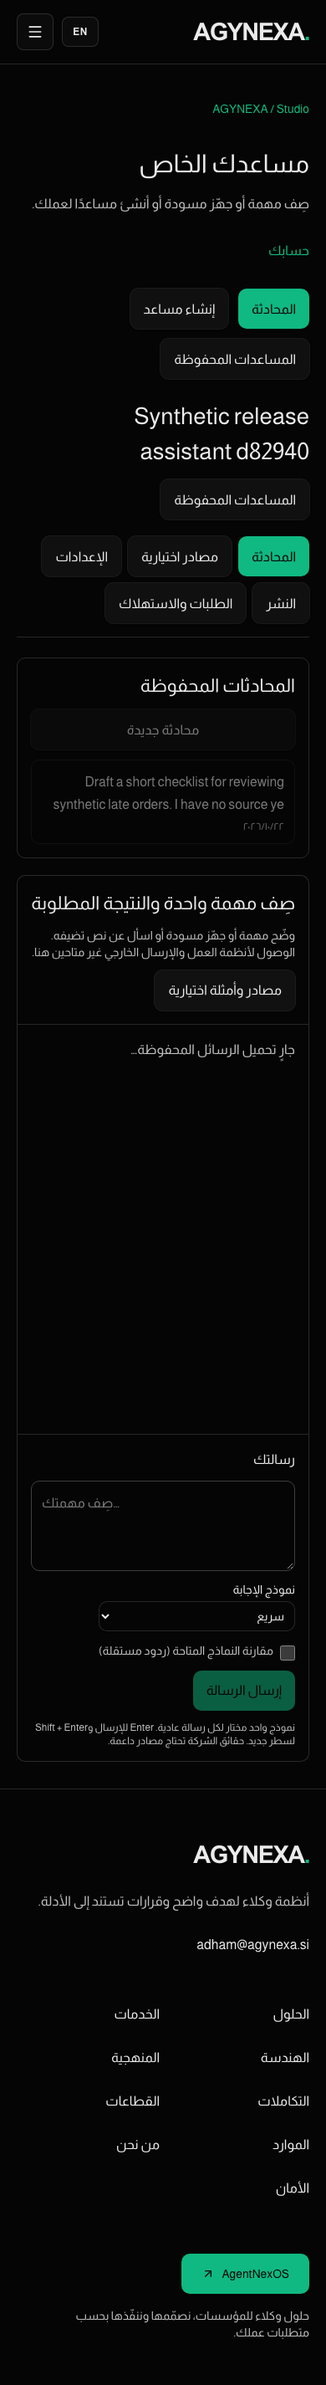
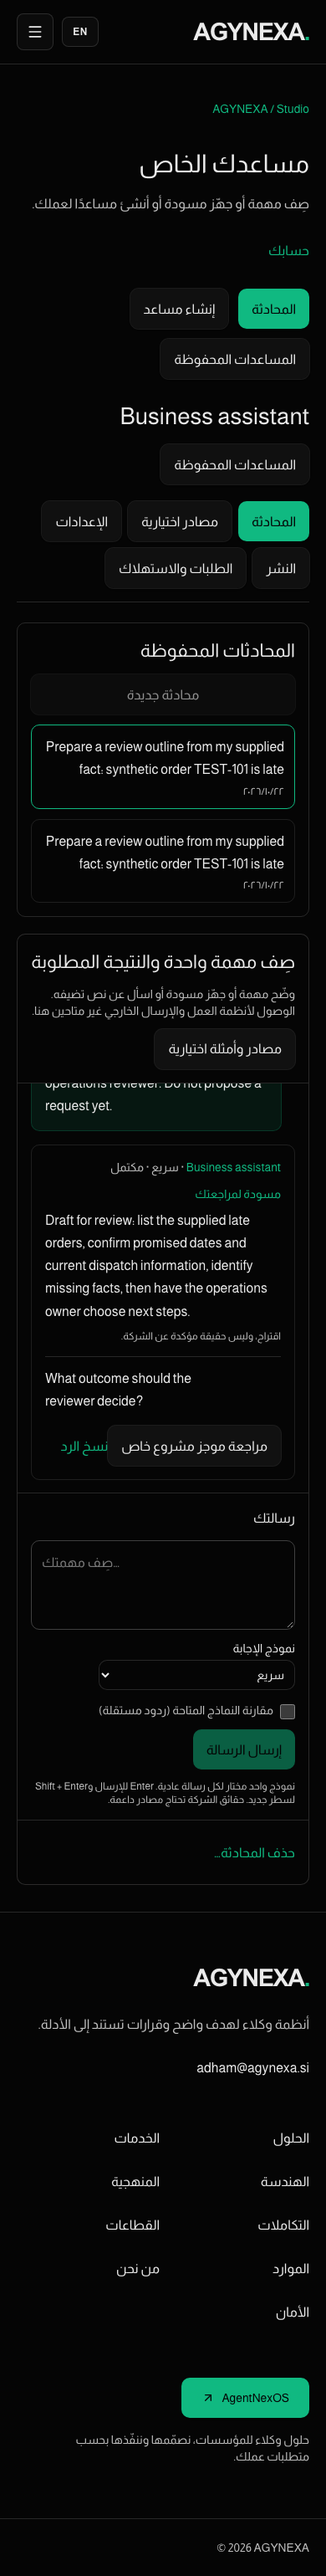
fix: constrain provider response parts to safe citation combinations

diff --git a/lib/studio/provider.ts b/lib/studio/provider.ts
@@ -41,4 +41,7 @@ export async function checkProvider(){
 }
 
 const object=(properties:Record<string,unknown>)=>({type:'object',additionalProperties:false,required:Object.keys(properties),properties})
-const chatSchema=object({parts:{type:'array',items:object({kind:{type:'string',enum:['capability','discovery','draft','grounded','missing_evidence','unavailable_action']},text:{type:'string'},basis:{type:'string',enum:['product_capabilities','user_supplied','suggestion','approved_sources']},citationChunkIds:{type:'array',items:{type:'string'}}})},nextQuestion:{type:['string','null']},briefDraft:{type:'null'},support:object({propose:{type:'boolean'},title:{type:'string'},details:{type:'string'}})})
+const partSchema=(kinds:string[],bases:string[],grounded=false)=>object({kind:{type:'string',enum:kinds},text:{type:'string'},basis:{type:'string',enum:bases},citationChunkIds:{type:'array',items:{type:'string'},maxItems:grounded?6:0,...(grounded?{minItems:1}:{})}})
+// Encode the same combinations the server validates, rather than asking the model
+// to infer citation policy from independent kind/basis enums.
+const chatSchema=object({parts:{type:'array',items:{anyOf:[partSchema(['grounded'],['approved_sources'],true),partSchema(['capability'],['product_capabilities']),partSchema(['discovery','draft'],['user_supplied','suggestion']),partSchema(['missing_evidence','unavailable_action'],['suggestion','product_capabilities'])]}},nextQuestion:{type:['string','null']},briefDraft:{type:'null'},support:object({propose:{type:'boolean'},title:{type:'string'},details:{type:'string'}})})

diff --git a/tests/launch-browser.py b/tests/launch-browser.py
@@ -62,6 +62,15 @@ async def main():
   boot_response=await page.request.post(BASE+'/api/v1/workspace/chat',data={'locale':'en'},headers={'Origin':BASE})
   assert boot_response.ok
   default_agent=(await boot_response.json())['agent']
+  if os.getenv('LAUNCH_BROWSER_CAPTURE_ONLY')=='ar':
+   await page.set_viewport_size({'width':390,'height':844})
+   await page.goto(BASE+'/ar/studio?agent='+default_agent['id'])
+   await page.locator('#agent-chat-message').wait_for()
+   await page.wait_for_function("!document.getElementById('agent-chat-message').disabled")
+   await screenshot('studio-ar-390')
+   print('PASS: resolved Arabic390 screenshot refreshed; read-only capture, no inference')
+   await browser.close()
+   return
   assert not (await (await page.request.get(BASE+'/api/v1/agents/'+default_agent['id']+'/sources')).json())['sources'],'Browser new-customer fixture must have no sources'
   if os.getenv('LAUNCH_BROWSER_RESUME')!='builder':
    await page.get_by_role('button',name='New conversation',exact=True).click()
@@ -169,6 +178,7 @@ async def main():
   await page.goto(BASE+'/ar/studio?agent='+created['id']+'&conversation='+conversation)
   await page.locator('#agent-chat-message').wait_for()
   assert await page.evaluate('document.documentElement.dir')=='rtl'
+  await page.get_by_role('log').get_by_text(grounded['question'],exact=True).wait_for()
   await screenshot('studio-ar-390')
   await page.get_by_role('button',name='حذف المحادثة…',exact=True).click()
   assert await page.get_by_role('button',name='تأكيد حذف المحادثة',exact=True).is_visible()
@@ -188,7 +198,7 @@ async def main():
    await screenshot('home-candidate-'+str(width))
   checks.append('Candidate homepage at 390/768/1440 captured without horizontal overflow; baseline comparison owned by lead')
   assert not errors,errors
-  result={'environment':'isolated local app with real Auth/PostgREST and synthetic accounts; deterministic provider fixture via Node preload' ,'status':'PASS','checks':checks,'pageErrors':errors,'limitations':['Comprehension tool is supporting text review, not a consenting-reader usability test.','Home screenshots require comparison with lead baseline; capture alone is not parity.','Provider output is deterministic fixture data; this gate verifies UI/storage/authorization contracts, not live model reasoning or semantic quality. Live adapter/schema/model checks are a separate Vercel gate.']}
+  result={'environment':'isolated local app with real Auth/PostgREST and synthetic accounts; deterministic provider fixture via Node preload' ,'status':'PASS','executionSegments':{'resume':os.getenv('LAUNCH_BROWSER_RESUME'),'earlierReceipt':'browser-model-selector-failure.json' if os.getenv('LAUNCH_BROWSER_RESUME')=='builder' else None},'checks':checks,'pageErrors':errors,'limitations':['Comprehension tool is supporting text review, not a consenting-reader usability test.','Home screenshots require comparison with lead baseline; capture alone is not parity.','Provider output is deterministic fixture data; this gate verifies UI/storage/authorization contracts, not live model reasoning or semantic quality. Live adapter/schema/model checks are a separate Vercel gate.']}
   (OUT/'browser.json').write_text(json.dumps(result,ensure_ascii=False,indent=2)+'\n')
   print(json.dumps(result,ensure_ascii=False))
   await browser.close()

diff --git a/docs/launch/2026-10-22/UI-RECORD.md b/docs/launch/2026-10-22/UI-RECORD.md
@@ -61,3 +61,15 @@ IMPORTANT findings sent to lead: (1) runtime dependencies included only current 
 No additional critical/important issue established in actor/org/agent/access-kind/conversation tuple, non-overwriting reserved-key bootstrap, dedicated builder create discriminator, shared DB agent lock for source/approval/finalization, or bounded hosting lease. Model-account inference/access still requires the planned gate; registry metadata alone is not verification. Raw authenticated run/proposal select grants close only with the explicit subsequent migration after compatible app deploy; lead must preserve that deployment ordering.
 
 Lead response: both independent findings accepted and fixed (prior-turn dependency union, no failed/cancelled generated payload, removal of rejected candidate snapshot); lead authors affected real regression cases. Fix outcome is IMPLEMENTED per lead, not independently retested by this reviewer, in keeping with the single-review rule. Remaining assigned review completed; no additional critical/important finding established. Product gate and production phase remain lead-owned.
+
+## Phase 4 — integrated affected browser gate (PASS for stated environment)
+
+Executed `tests/launch-browser.py` against `http://localhost:3016` with the real isolated PostgreSQL/Auth/PostgREST application and synthetic local fixtures. Browser executable was the installed Chromium headless shell. **Provider boundary is deterministic synthetic response data supplied by a Node preload outside production source. This is not live Groq/model semantic verification.** Lead separately owns remote adapter/schema/model verification.
+
+Result: eight focused journey groups PASS, zero browser page errors. Evidence: [browser.json](evidence/browser/browser.json), [English1440](evidence/browser/studio-en-1440.png), [builder768](evidence/browser/builder-en-768.png), [Arabic390](evidence/browser/studio-ar-390.png). Actual verified paths: default localized login/private chat without sources; user-message-only brief prefill/required fields/review/consent/private save; distinct persisted builder agent ID/name/instructions/settings destination and private test; synthetic sample inspection/editor no creation followed by explicit private source add; original citations/refresh/follow-up; exact stored proposal title/details and decision-only approval; source deletion invalidates linked history/citations; Arabic RTL/no overflow/keep-versus-confirm deletion. Home candidate screens captured at390/768/1440; lead owns separate baseline comparison.
+
+Initial harness failures preserved: [reused fixture](evidence/browser/browser-initial-fixture-failure.json), [save text selector](evidence/browser/browser-private-save-selector-failure.json), [model select label](evidence/browser/browser-model-selector-failure.json). Causes: account0 contained security-gate sources; success paragraph includes an Account link; implicit select label contains option text so exact matching failed. Corrected only test isolation/selectors, not product source. Browser uses fixture account1, asserts empty initial source set, starts a new conversation. Final execution resumed from builder while retaining the two already successful chat/brief groups in the saved failure receipt; they were not needlessly rerun. Remaining groups then passed. No new build/source edits were required.
+
+Limitations: deterministic provider verifies UI/contracts/storage/action boundaries, not model entailment, refusal quality, semantic usefulness, actual inference access or performance. Real runtime semantics require the separate live remote gate. These checks do not establish account recovery, external sending, a staff inbox or any new integration. No production fixtures/account writes/deployment performed by this worker. Logs: executor `work/launch-browser.log`; initial failure log retained in `work/launch-browser-initial.log` (not public deliverables). Phase status is scoped browser PASS, not overall production completion.
+
+Screenshot follow-up: the first Arabic capture was taken during asynchronous history loading. Ran the harness's read-only `LAUNCH_BROWSER_CAPTURE_ONLY=ar` branch, waited for the enabled composer (history resolved), and refreshed `studio-ar-390.png` using the already saved default assistant conversation. No inference/new message/source/proposal/brief created in that capture. Outcome PASS; resolved EN1440/builder768/AR390 screenshots inspected visually. The localized interface preserves stored agent names and historical message language. Candidate code unchanged.

diff --git a/docs/launch/2026-10-22/EXECUTION.md b/docs/launch/2026-10-22/EXECUTION.md
@@ -87,3 +87,14 @@ Resource snapshot: 8GiB RAM, 8CPU, 28GiB available disk. No Docker/Colima on PAT
 - Maintained documentation validator:PASS,1115 markdown/373 file links/80 JSON/68 canonical URLs/38 operations; original master plan/evidence hashes preserved. Extractor corrected for formatted quoted solution slug fields and explicit legal routes. No runtime source change needed.
 - Isolated browser first source-free check reused a source-populated fixture account; worker moved to untouched second synthetic account. Subsequent form success assertion/label matching were harness assumptions; worker resumes affected portions. Actual new-customer chat and explicit brief review/consent/private save passed so far, no page errors. Final browser gate pending.
 - Historical authorized Chrome audit-tab ID no longer exists in current Chrome inventory. No other personal tab was claimed, navigated or resized. Authenticated live production browser check remains NOT VERIFIED unless a usable authorized session becomes available. No production fixture accounts will be created.
+
+- Browser gate PASS:8 cumulative journey groups, zero page errors, explicit390/768/1440 EN/AR coverage (actual small width390). Evidence `evidence/browser/browser.json` and screenshots. New distinct saved agent/test, optional private synthetic source/citations, refresh/follow-up, exact internal approval, source-delete redaction, private brief review/consent, explicit Arabic conversation deletion. Provider fixture limitation remains explicit. Harness-only failed assumptions preserved; affected continuation resumed without repeating successful chat/brief writes. No app source fix/build rerun required.
+- Candidate implementation commit cbdc133a00a4b3afaf38b75963e40f16dcad8839. Protected artifact archive SHA256 remains fully byte-identical. Full diff whitespace check reports only preserved trailing blank lines in2 original research documents; intentionally retained to honor byte-identical full-plan preservation. Code/edited files checked separately.
+- Staged Vercel production-target deployment uploading/building with --skip-domain, release commit metadata and server flags. Current public alias still resolves old dpl_6G3gMAQbEmqqCEUQMdojkz1v4HnV before release. No domain/DNS operation.
+- Hosted schema-only restore record saved privately under work/hosted-schema-before.json (function definitions only, no customer records/secrets); current source migration definitions also retained. Forward migration and security-compatible rollback are documented.
+
+## Affected staged-provider failure and correction
+
+- Staged deployment dpl_JC3Nr7YQnBXgmyFLqV7heTXQEfgb ERROR; public aliases were not promoted. Next build passed. Actual GPT-OSS120B calls passed discovery(561ms) and unsupported-policy(508ms), max allowance65536 accepted. Third grounded case failed server kind/basis/citation validation: non-grounded part carried source basis/citations. No unsafe output accepted.
+- Root: provider schema had independent kind/basis enums, allowing combinations forbidden by server. Fixed provider schema with documented anyOf composition and kind-specific basis/citation constraints; non-grounded maxItems0, grounded minItems1/maxItems6. Server validator stays strict; no silent unrestricted downgrade. Actual provider compatibility of array cardinality constraints is checked by the affected remote gate, not assumed.
+- Add failure diagnostics limited to model/sample/kind/basis/citation count, never secrets or private content. Required next: affected contract check and staged remote build/actual model gate; no broad local DB/browser rerun for schema-only provider correction unless new evidence requires it.
